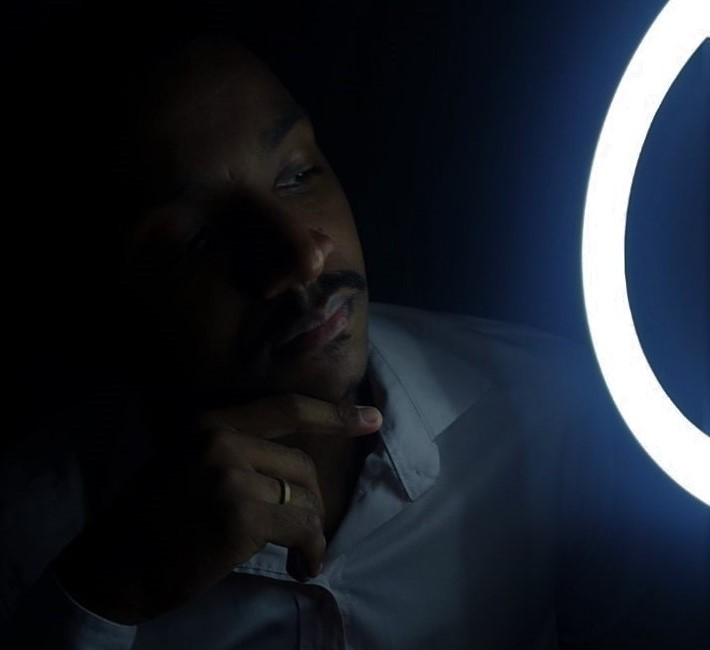
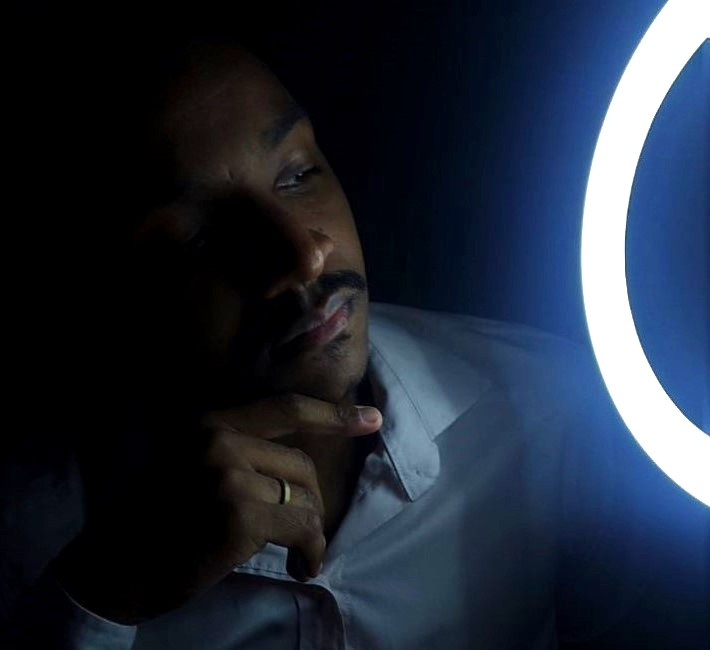
sua mensagem aqui

diff --git a/css/style.css b/css/style.css
@@ -128,7 +128,7 @@ header .navegacao-primaria li a:hover::after {
     content: '';
     position: absolute;
     inset: 0;
-    background-color: rgba(0, 0, 0, .65);
+    background-color: rgba(0, 0, 0, .35);
 }
 
 .section-div_inner {